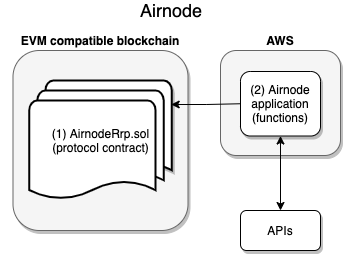
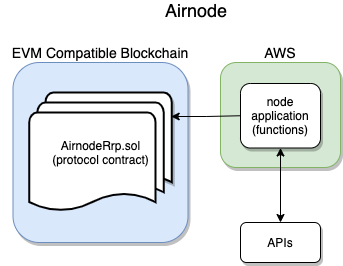
Showing and speaking of Airnode as 2 parts.

diff --git a/docs/common/the-airnode.md b/docs/common/the-airnode.md
@@ -7,7 +7,13 @@ title: The Airnode
 <TocHeader />
 <TOC class="table-of-contents" :include-level="[2,3]" />
 
-At its core, **API3** brings the ability for API providers to easily run their own _oracle nodes_. This allows them to provide their data on-chain, without an intermediary, to any _decentralized app_ \(dApp\) interested in their services.
+Airnode is a serverless oracle node implemented with a "set and forget" philosophy. Airnode is composed of two parts: the off-chain **Airnode** (a.k.a. "the node") deployed as self hosted or cloud provider functions, e.g., AWS) and the on-chain **protocol contract**  AirnodeRrp.sol.
+
+> ![2-parts](./images/summary-airnode-2-parts.png)
+<br/><br/>
+> <p class="diagram-line" style="color:black;">Airnode is composed of two parts: the off-chain **Airnode** (a.k.a. "the node") deployed usually as cloud provider functions, e.g., AWS) and the on-chain **protocol contract**  AirnodeRrp.sol.</p>
+
+At its core, **Airnode** brings the ability for API providers to easily run their own _oracle nodes_. This allows them to provide their data on-chain, without an intermediary, to any _decentralized app_ \(dApp\) interested in their services.
 
 At the heart of this mechanism sits **Airnode**, an open-source oracle node. It's designed to be easily deployed by any API provider with almost no maintenance. Because of Airnode, dApp developers can write _smart contracts_ to interact with the on-chain data of API providers.
 
@@ -71,7 +77,7 @@ Airnode is developed by the founding members of API3 and is now open-sourced. Th
 
 Similar to how we prefer the better specified API connectivity problem over the oracle problem, we believe that an oracle node should be designed to interface APIs to smart contract platforms very well, rather than as a sandbox that can purportedly be used for any purpose imaginable. Based on this philosophy, the Airnode protocol is designed to follow the self-emergent patterns used by APIs to achieve as transparent and frictionless of an API–smart contract platform interface as possible.
 
-The first and the most commonly used API style follows the request–response pattern, where the user makes a request with parameters and the API responds as soon as possible. This will be the first pattern that Airnode will support, as it is easy to standardize and integrate with existing APIs that follow the same pattern. An example use case of this scheme would be requesting the result of a specific match to be delivered, which can be used to resolve the respective prediction market. In addition, Airnode is planned to support the publish–subscribe pattern, where the user requests the oracle to call back a specific method when parametrized conditions are met. For example, a decentralized exchange may request the oracle to trigger a liquidation event for a user in a leveraged position when ETH price drops below $400. Either of these patterns can be used to implement the live data feeds that DeFi applications use today, but they can also support a much larger variety of use cases in the form of dAPIs.
+The first and the most commonly used API style follows the request–response pattern, where the user makes a request with parameters and the API responds as soon as possible. This will be the first pattern that Airnode will support, as it is easy to standardize and integrate with existing APIs that follow the same pattern. An example use case of this scheme would be requesting the result of a specific match to be delivered, which can be used to resolve the respective prediction market. In addition, Airnode is planned to support the publish–subscribe pattern, where the user requests the oracle to call back a specific method when parametrized conditions are met. For example, a decentralized exchange may request the oracle to trigger a liquidation event for a user in a leveraged position when ETH price drops below a particular price. Either of these patterns can be used to implement the live data feeds that DeFi applications use today, but they can also support a much larger variety of use cases in the form of dAPIs.
 
 The Airnode protocol is designed in a way that the requester assumes all gas costs, even including the request fulfillment transactions. This is achieved by each Airnode having a separate wallet for each requester, similar to how cryptocurrency exchanges automatically designate wallets for users to deposit funds to. The requester funds this wallet with the native currency (e.g., ETH), either in a lump sum or through per-request microtransactions. The funds in this wallet are used to fulfill all of the following requests made by the requester. This scheme has significant advantages:
 

diff --git a/docs/airnode/v1.0/grp-developers/self-serve-platforms.md b/docs/airnode/v1.0/grp-developers/self-serve-platforms.md
@@ -7,11 +7,11 @@ title: Self-Serve Smart Contract Platforms
 <TocHeader />
 <TOC class="table-of-contents" :include-level="[2,3]" />
 
-Airnode is composed of two parts: the off-chain **Airnode** (cloud provider functions, e.g., AWS) and the on-chain **AirnodeRrp.sol** protocol contract. API3 has deployed the AirnodeRrp.sol protocol contract to several EVM-compatible blockchains. An API provider deploys an Airnode application to a cloud provider which can communicate with one or more AirnodeRrp.sol protocol contracts on different blockchains.
+Airnode is composed of two parts: the off-chain **Airnode** (a.k.a. "the node") deployed as self hosted or cloud provider functions, e.g., AWS) and the on-chain **protocol contract**  AirnodeRrp.sol. API3 has deployed the AirnodeRrp.sol protocol contract to several EVM-compatible blockchains. An API provider deploys an Airnode application to a cloud provider which can communicate with one or more AirnodeRrp.sol protocol contracts on different blockchains.
 
 > ![2-parts](../assets/images/airnode-is-2-parts.png)
 <br/><br/>
-> <p class="diagram-line" style="color:black;">Airnode is composed of two parts: (1) the AirnodeRrp.sol protocol contract and (2) the Airnode application.</p>
+> <p class="diagram-line" style="color:black;">Airnode is composed of two parts: the off-chain **Airnode** (a.k.a. "the node") deployed usually as cloud provider functions, e.g., AWS) and the on-chain **protocol contract**  AirnodeRrp.sol.</p>
 
 ## Is my platform compatible?
 
@@ -23,7 +23,7 @@ This document enables you to "self-serve" and assess the feasibility of an integ
 
 ## EVM Support
 
-Let's go over different factors that determine compatibility. Airnode is composed of two parts: the _AirnodeRrp.sol protocol contract_ and the _Airnode application_. The protocol contract is implemented in Solidity.
+Let's go over different factors that determine compatibility. Airnode is composed of two parts: the off-chain **Airnode** (a.k.a. "the node") deployed as self hosted or cloud provider functions, e.g., AWS) and the on-chain **protocol contract**  AirnodeRrp.sol. The protocol contract is implemented in Solidity.
 
 Solidity typically compiles to EVM bytecode, which means that your smart contract platform should be EVM-compatible. In theory, you can also compile Solidity into other types of bytecode (e.g., WASM) that would run natively on your smart contract platform, yet the resulting integration will need to be tested extensively. So if your smart contract platform runs Solidity contracts, you are good.
 If it does not, the protocol will have to be implemented in the native smart contract language.

diff --git a/docs/airnode/v1.0/grp-developers/call-an-airnode.md b/docs/airnode/v1.0/grp-developers/call-an-airnode.md
@@ -11,8 +11,7 @@ A requester is a contract that can trigger an Airnode request. To do so, request
 request using a matching sponsor wallet. See [Requesters and Sponsors](requesters-sponsors.md) on how to sponsor a
 requester and derive the sponsor wallet.
 
-Airnode is composed of two parts: the off-chain **Airnode** (cloud provider functions, e.g., AWS) and the on-chain
-**protocol contract** ( AirnodeRrp.sol). A requester calls the protocol contract, which emits a blockchain event with
+Airnode is composed of two parts: the off-chain **Airnode** (a.k.a. "the node") deployed as self hosted or cloud provider functions, e.g., AWS) and the on-chain **protocol contract**  AirnodeRrp.sol. A requester calls the protocol contract, which emits a blockchain event with
 the request parameters. Airnode listens to the events emitted by the AirnodeRrp contract. During its next run cycle,
 Airnode gets the request parameters from the emitted event. The diagram below illustrates the mechanics of the entire
 process as does the diagram in the [Overview](./) doc for developers.

diff --git a/docs/airnode/v1.0/grp-developers/guides/smart-contracts-platform/is-my-platform-compatible.md b/docs/airnode/v1.0/grp-developers/guides/smart-contracts-platform/is-my-platform-compatible.md
@@ -15,7 +15,7 @@ In this guide, we will go over different factors that determine compatibility.
 
 ## EVM support
 
-Airnode is composed of two parts: The protocol contract and the node application.
+Airnode is composed of two parts: the off-chain **Airnode** (a.k.a. "the node") deployed as self hosted or cloud provider functions, e.g., AWS) and the on-chain **protocol contract**  AirnodeRrp.sol.
 The Airnode protocol contract is implemented in Solidity.
 
 Solidity typically compiles to EVM bytecode, which means that your smart contract platform should be EVM-compatible.
